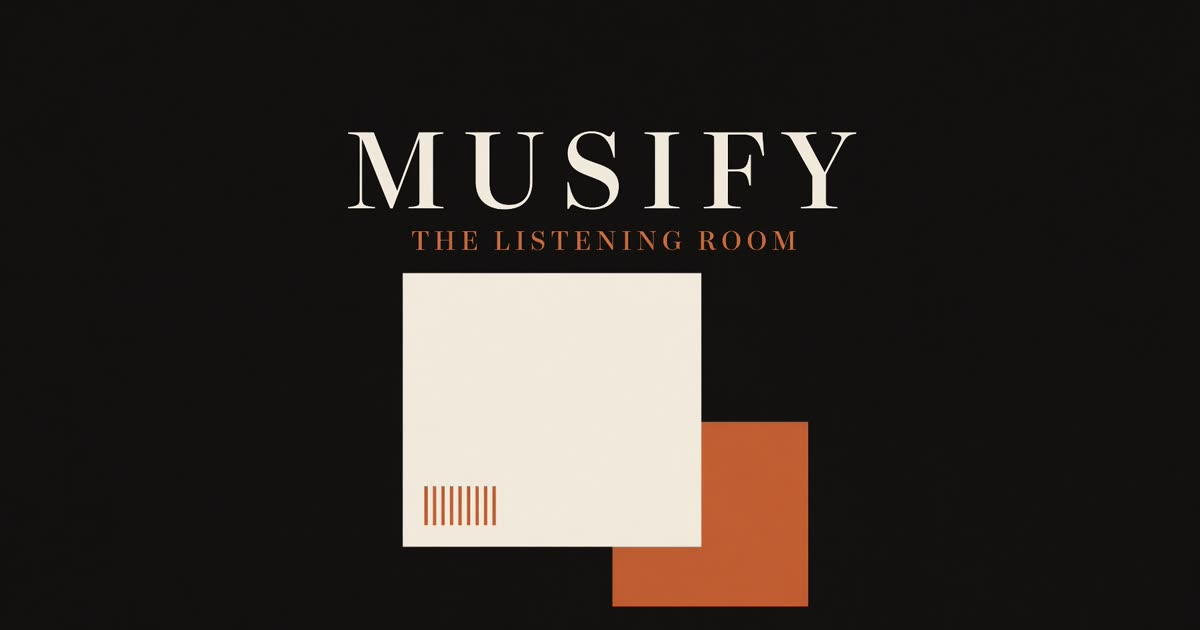
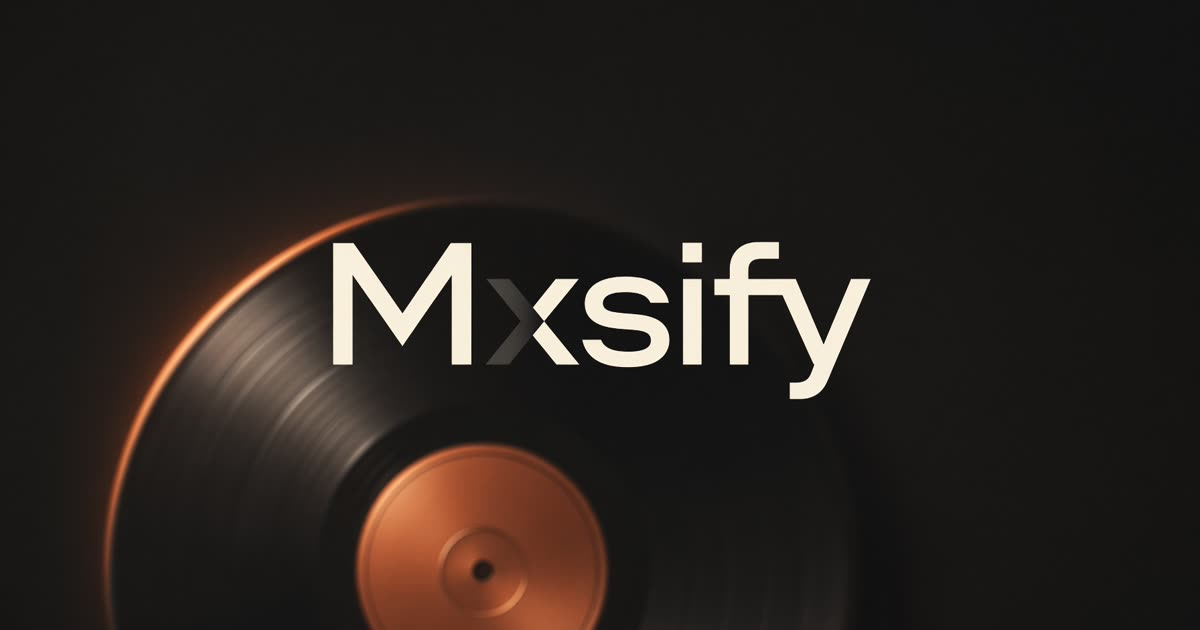
Publish Mxsify as a site and add an iOS package

Changed region(s): [[0.0617, 0.2111, 0.74, 1.0], [0.0925, 0.9952, 0.1233, 1.0]]

diff --git a/src/lib/catalog.ts b/src/lib/catalog.ts
@@ -1,4 +1,3 @@
-import { createServerFn } from "@tanstack/react-start";
 import { GENRES, type AlbumCard, type Genre, type Shelves, type Track } from "@/lib/types";
 
 const TTL = 10 * 60 * 1000;
@@ -47,16 +46,49 @@ async function memo<T>(key: string, fn: () => Promise<T>): Promise<T> {
   return val;
 }
 
-async function dz<T>(path: string): Promise<T> {
-  const response = await fetch(`https://api.deezer.com${path}`, {
+async function dzFetch<T>(url: string): Promise<T> {
+  const response = await fetch(url, {
     headers: { accept: "application/json", "user-agent": "Mxsify/1.0" },
     signal: AbortSignal.timeout(12000),
   });
   if (!response.ok) throw new Error("The catalog did not answer.");
-  const json = (await response.json()) as T & { error?: { message?: string } };
-  if (json && typeof json === "object" && "error" in json && json.error) {
-    throw new Error("The catalog did not answer.");
-  }
+  return (await response.json()) as T;
+}
+
+function dzJsonp<T>(url: string): Promise<T> {
+  return new Promise((resolve, reject) => {
+    const name = `mxsifyCb${Date.now().toString(36)}${Math.random().toString(36).slice(2, 8)}`;
+    const script = document.createElement("script");
+    const host = window as unknown as Record<string, unknown>;
+    const timer = window.setTimeout(() => {
+      cleanup();
+      reject(new Error("The catalog did not answer."));
+    }, 12000);
+    const cleanup = () => {
+      window.clearTimeout(timer);
+      delete host[name];
+      script.remove();
+    };
+    host[name] = (data: T) => {
+      cleanup();
+      resolve(data);
+    };
+    const join = url.includes("?") ? "&" : "?";
+    script.src = `${url}${join}output=jsonp&callback=${name}`;
+    script.onerror = () => {
+      cleanup();
+      reject(new Error("The catalog did not answer."));
+    };
+    document.head.appendChild(script);
+  });
+}
+
+async function dz<T>(path: string): Promise<T> {
+  const url = `https://api.deezer.com${path}`;
+  const json = (typeof window === "undefined" ? await dzFetch<T>(url) : await dzJsonp<T>(url)) as T & {
+    error?: { message?: string };
+  };
+  if (json && typeof json === "object" && json.error) throw new Error("The catalog did not answer.");
   return json;
 }
 
@@ -216,63 +248,39 @@ async function loadRelated(artist: string, exclude: string[]): Promise<Track[]> 
   return tracks;
 }
 
-export const getShelves = createServerFn({ method: "GET" }).handler(async () => loadShelves());
+export function getShelves() {
+  return loadShelves();
+}
 
-export const getCharts = createServerFn({ method: "GET" }).handler(async () => loadCharts());
+export function getCharts() {
+  return loadCharts();
+}
 
-export const getAlbum = createServerFn({ method: "GET" })
-  .validator((data: unknown) => {
-    if (typeof data !== "object" || data === null || !("id" in data) || typeof data.id !== "string") {
-      throw new Error("Unknown album");
-    }
-    return { id: assertId(data.id) };
-  })
-  .handler(async ({ data }) => loadAlbum(data.id));
+export function getAlbum(input: { data: { id: string } }) {
+  return loadAlbum(assertId(input.data.id));
+}
 
-export const getGenre = createServerFn({ method: "GET" })
-  .validator((data: unknown) => {
-    if (typeof data !== "object" || data === null || !("id" in data) || typeof data.id !== "string") {
-      throw new Error("Unknown genre");
-    }
-    return { id: data.id };
-  })
-  .handler(async ({ data }) => loadGenre(data.id));
+export function getGenre(input: { data: { id: string } }) {
+  return loadGenre(input.data.id);
+}
 
-export const getArtist = createServerFn({ method: "GET" })
-  .validator((data: unknown) => {
-    if (typeof data !== "object" || data === null || !("name" in data) || typeof data.name !== "string") {
-      throw new Error("Unknown artist");
-    }
-    return { name: data.name.slice(0, 160) };
-  })
-  .handler(async ({ data }) => loadArtist(data.name));
+export function getArtist(input: { data: { name: string } }) {
+  return loadArtist(input.data.name.slice(0, 160));
+}
 
-export const searchCatalog = createServerFn({ method: "GET" })
-  .validator((data: unknown) => {
-    if (typeof data !== "object" || data === null || !("q" in data) || typeof data.q !== "string") {
-      return { q: "" };
-    }
-    return { q: data.q.slice(0, 80) };
-  })
-  .handler(async ({ data }) => loadSearch(data.q));
+export function searchCatalog(input: { data: { q: string } }) {
+  return loadSearch(typeof input.data.q === "string" ? input.data.q.slice(0, 80) : "");
+}
 
-export const searchSongs = createServerFn({ method: "GET" })
-  .validator((data: unknown) => {
-    if (typeof data !== "object" || data === null || !("q" in data) || typeof data.q !== "string") {
-      return { q: "" };
-    }
-    return { q: data.q.slice(0, 80) };
-  })
-  .handler(async ({ data }) => loadSongs(data.q));
+export function searchSongs(input: { data: { q: string } }) {
+  return loadSongs(typeof input.data.q === "string" ? input.data.q.slice(0, 80) : "");
+}
 
-export const relatedTracks = createServerFn({ method: "POST" })
-  .validator((data: unknown) => {
-    if (typeof data !== "object" || data === null) throw new Error("Bad request");
-    const artist = "artist" in data && typeof data.artist === "string" ? data.artist.slice(0, 120) : "";
-    const exclude = "exclude" in data && Array.isArray(data.exclude) ? data.exclude.filter((id) => typeof id === "string").slice(0, 200) : [];
-    return { artist, exclude };
-  })
-  .handler(async ({ data }) => loadRelated(data.artist, data.exclude));
+export function relatedTracks(input: { data: { artist: string; exclude: string[] } }) {
+  const artist = input.data.artist.slice(0, 120);
+  const exclude = input.data.exclude.filter((id) => typeof id === "string").slice(0, 200);
+  return loadRelated(artist, exclude);
+}
 
 const albumPromises = new Map<string, Promise<{ album: AlbumCard; tracks: Track[] }>>();
 

diff --git a/src/routes/__root.tsx b/src/routes/__root.tsx
@@ -13,7 +13,7 @@ export const Route = createRootRoute({
       { name: "theme-color", content: "#121212" },
     ],
     links: [
-      { rel: "icon", type: "image/svg+xml", href: "/favicon.svg" },
+      { rel: "icon", type: "image/svg+xml", href: `${import.meta.env.BASE_URL}favicon.svg` },
       { rel: "preconnect", href: "https://fonts.googleapis.com" },
       { rel: "preconnect", href: "https://fonts.gstatic.com", crossOrigin: "anonymous" },
       {
@@ -21,8 +21,8 @@ export const Route = createRootRoute({
         href: "https://fonts.googleapis.com/css2?family=Inter:wght@400;500;600;700&display=swap",
       },
       { rel: "stylesheet", href: appCss },
-      { rel: "manifest", href: "/__grok/manifest.webmanifest" },
-      { rel: "apple-touch-icon", href: "/__grok/icon-180.png" },
+      { rel: "manifest", href: `${import.meta.env.BASE_URL}__grok/manifest.webmanifest` },
+      { rel: "apple-touch-icon", href: `${import.meta.env.BASE_URL}__grok/icon-180.png` },
     ],
   }),
   component: () => (

diff --git a/vite.config.ts b/vite.config.ts
@@ -146,6 +146,7 @@ function authPopupPlugin(): Plugin {
 // The dev server starts once `src/router.tsx` and `src/routes/` exist — see
 // AGENTS.md § "First scaffold".
 export default defineConfig(({ command, isPreview }) => ({
+  base: process.env.PAGES === "1" ? "/musify/" : "/",
   server: {
     host: "0.0.0.0",
     port: 8080,
@@ -166,7 +167,14 @@ export default defineConfig(({ command, isPreview }) => ({
     // PWA head + ?install=1 tutorial page; runs before Start/Nitro.
     grokPwaPlugin(),
     tailwindcss(),
-    tanstackStart(),
+    tanstackStart(
+      process.env.PAGES === "1"
+        ? {
+            spa: { enabled: true, prerender: { outputPath: "/" } },
+            router: { basepath: "/musify" },
+          }
+        : {},
+    ),
     ...(command === "build" || isPreview
       ? [
           nitro({
